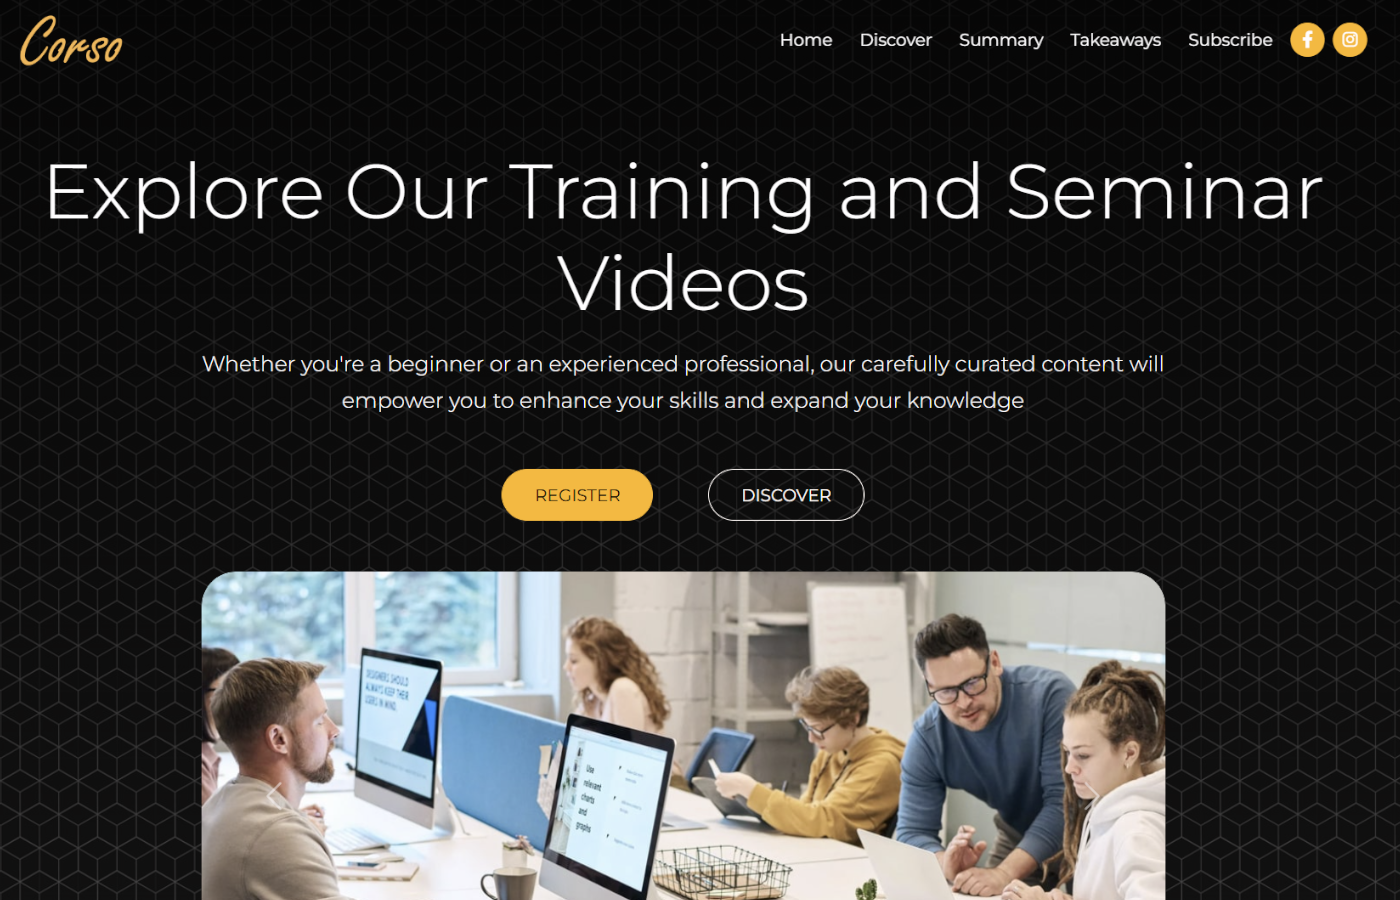
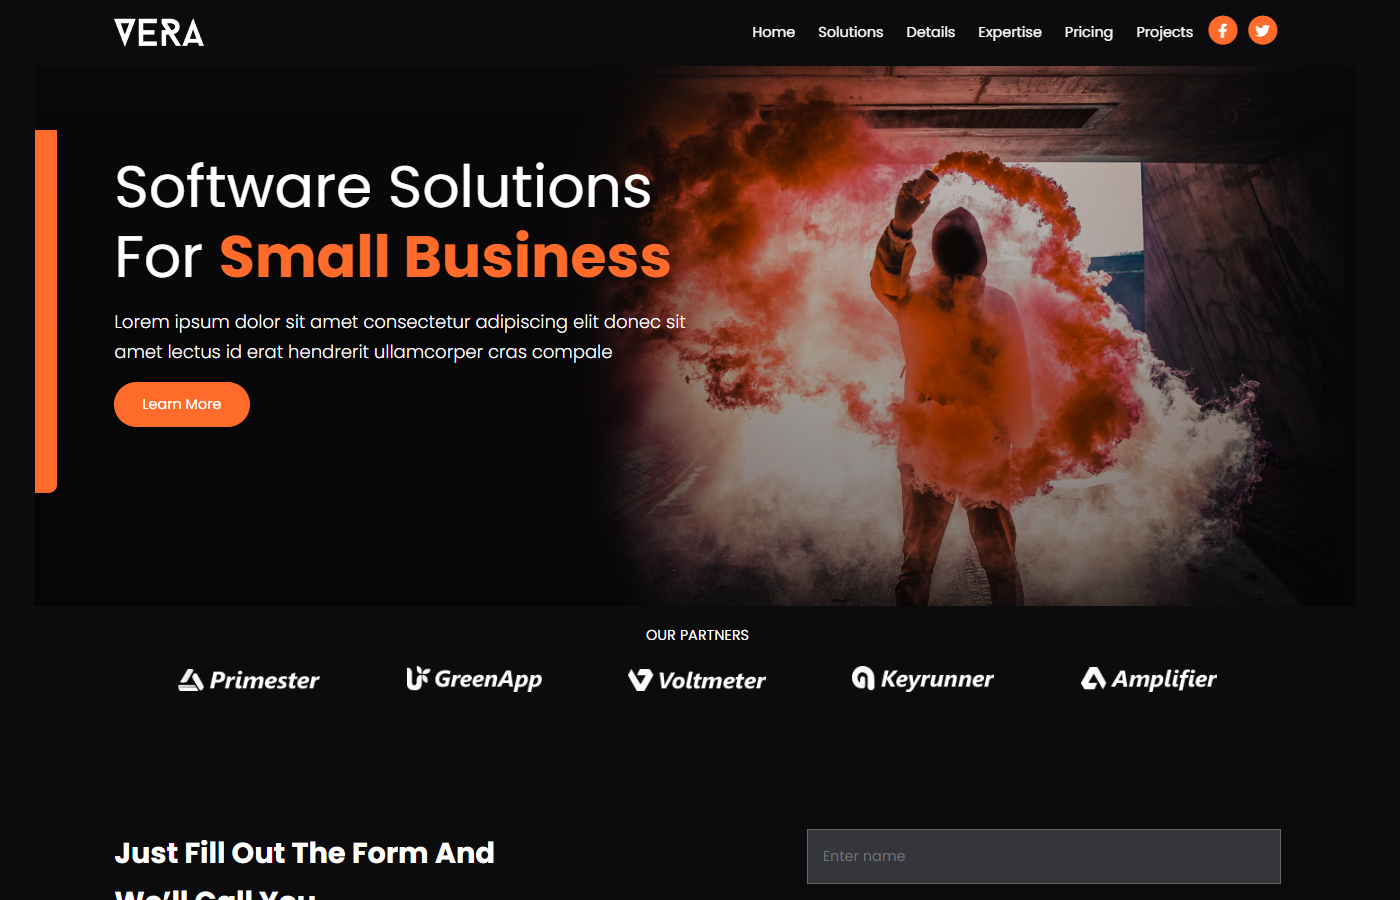
Updating projects

diff --git a/index.html b/index.html
@@ -486,7 +486,7 @@
                                     >
                                     <span
                                         class="badge bg-info text-dark me-2 mb-2"
-                                        >CSS3</span
+                                        >SCSS</span
                                     >
                                     <span
                                         class="badge bg-info text-dark me-2 mb-2"
@@ -612,7 +612,7 @@
                             >
                                 <img
                                     src="./images/project3.png"
-                                    alt=""
+                                    alt="Vera Website"
                                     class="card-img-top project-img"
                                 />
                                 <div
@@ -620,7 +620,7 @@
                                 >
                                     <div class="d-flex justify-content-center">
                                         <a
-                                            href="https://corso-website-ebon-pi.vercel.app/"
+                                            href="https://vera-website-kappa.vercel.app/"
                                             class="btn btn-sm btn-light me-2"
                                             target="_blank"
                                         >
@@ -630,7 +630,7 @@
                                             >Live
                                         </a>
                                         <a
-                                            href="https://github.com/patrikmartinec23/corso-website"
+                                            href="https://github.com/patrikmartinec23/vera-website"
                                             class="btn btn-sm btn-dark"
                                             target="_blank"
                                         >
@@ -641,12 +641,11 @@
                                 </div>
                             </div>
                             <div class="card-body p-3">
-                                <h5 class="card-title">Corso Website</h5>
+                                <h5 class="card-title">Vera Website</h5>
                                 <p class="card-text small">
-                                    Bootstrap website for training courses,
-                                    workshops, seminars, etc. It has a mixed
-                                    design with both light and dark colors and a
-                                    modern look.
+                                    Bootstrap Business website that could easily
+                                    be used to fit any business. Dark-themed
+                                    design with modals and other features.
                                 </p>
                                 <div class="mb-2">
                                     <span
@@ -711,8 +710,8 @@
                             <div class="card-body p-3">
                                 <h5 class="card-title">Flixx App</h5>
                                 <p class="card-text small">
-                                    Vanilla JS app that displays current movie,
-                                    TV show and actor info.
+                                    Vanilla JS app that displays information
+                                    about current movies, TV-shows and actors.
                                 </p>
                                 <div class="mb-2">
                                     <span
@@ -726,10 +725,6 @@
                                     <span
                                         class="badge bg-info text-dark me-1 mb-1"
                                         >JavaScript</span
-                                    >
-                                    <span
-                                        class="badge bg-info text-dark me-1 mb-1"
-                                        >Tailwind CSS</span
                                     >
                                     <span
                                         class="badge bg-info text-dark me-1 mb-1"

diff --git a/services.html b/services.html
@@ -128,7 +128,7 @@
                                 ></i>
                                 <h5 class="card-title">Maximize Potential</h5>
                                 <p class="card-text">
-                                    By unlocking your online potential through
+                                    By unlocking your online potential,
                                     increasing your online presence and brand
                                     recognition. I help you reach new targeted
                                     audiences and acquire new customers.
